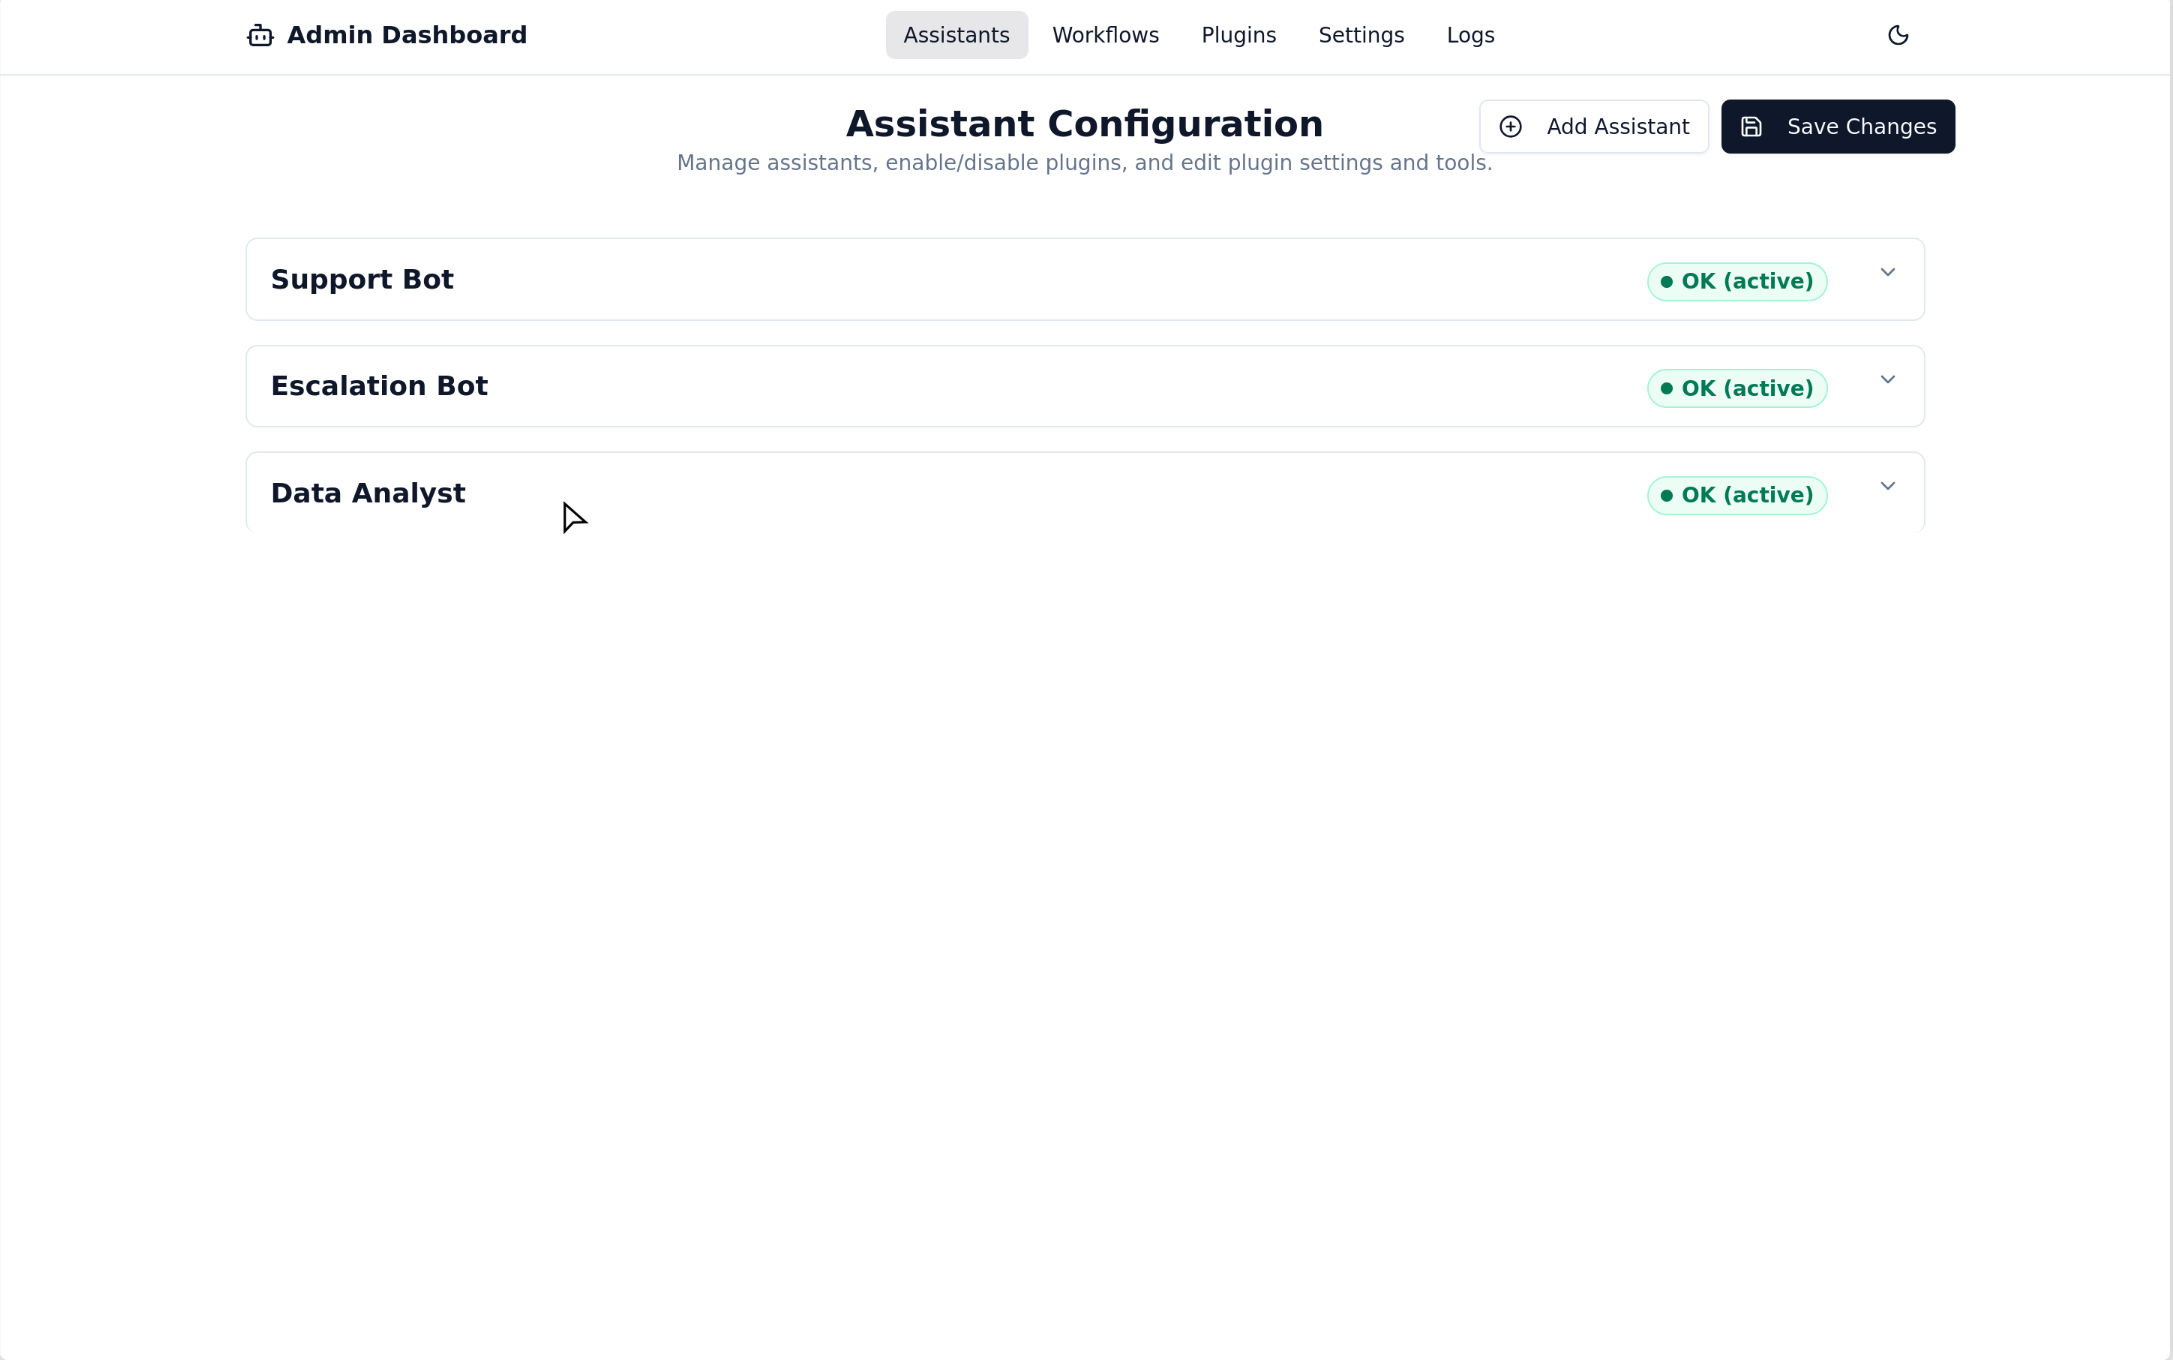
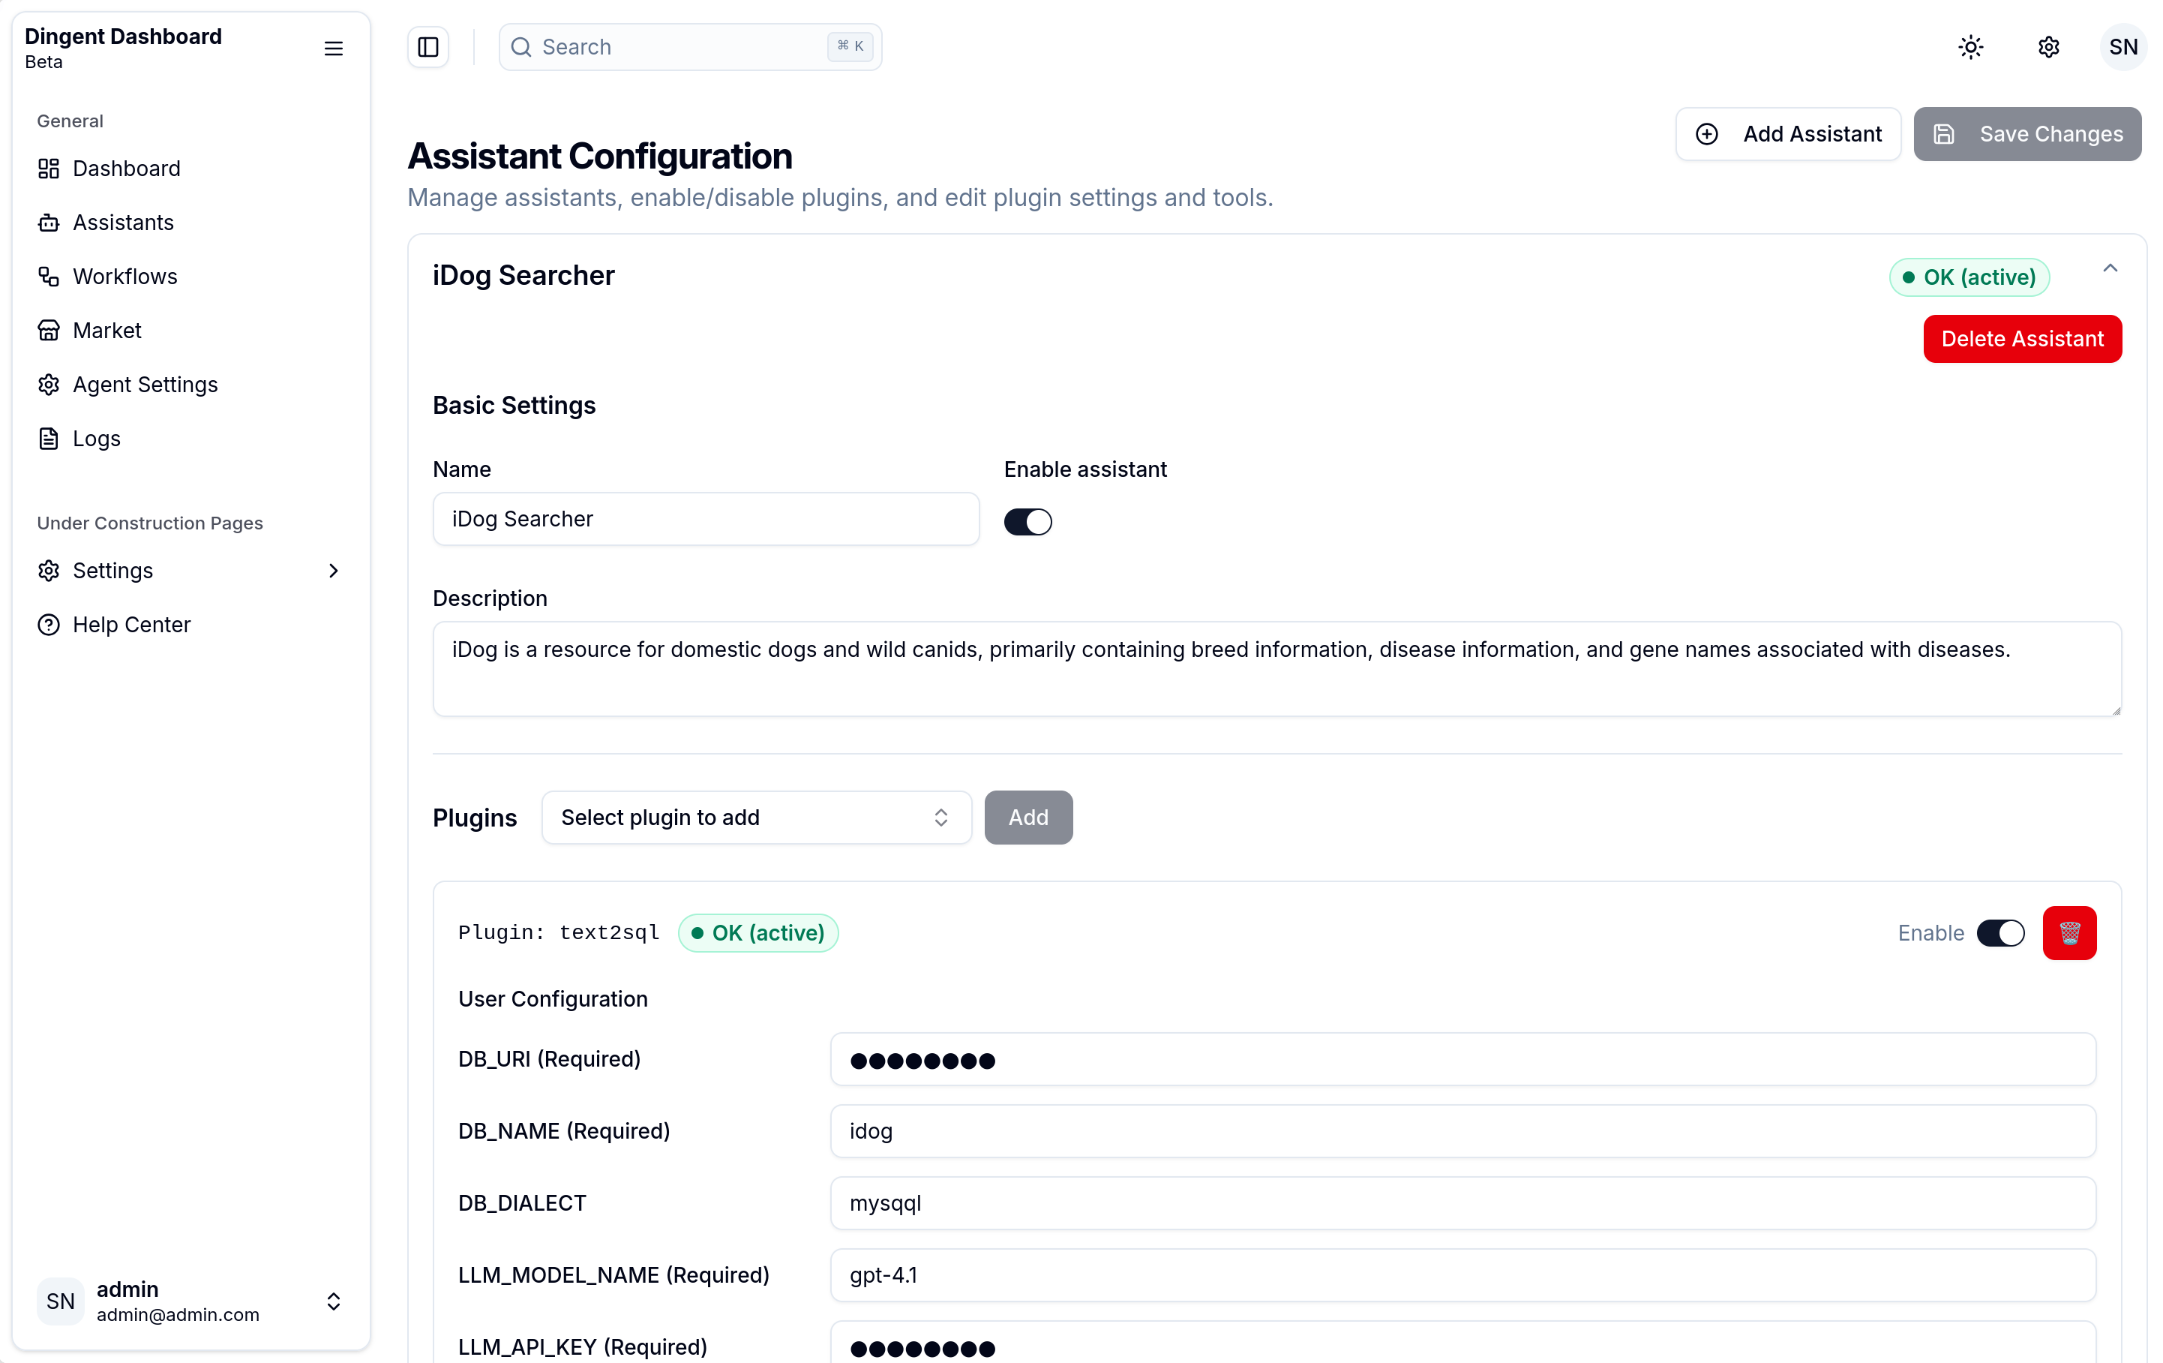
Frontend/shadcn admin (#60)
* Move to shadcn admin framework

* Feature: add overview api route

* Update readme images; update dashboard routes

* Pre commit format

* Chore/remove plugins (#61)

* Move to shadcn admin framework

* Remove unused plugins

* Fix: remove comments in json files

diff --git a/ui/admin-dashboard/vite.config.ts b/ui/admin-dashboard/vite.config.ts
@@ -6,6 +6,7 @@ import { tanstackRouter } from '@tanstack/router-plugin/vite'
 
 // https://vite.dev/config/
 export default defineConfig({
+  base: '/admin',
   plugins: [
     tanstackRouter({
       target: 'react',
@@ -19,17 +20,17 @@ export default defineConfig({
       '@': path.resolve(__dirname, './src'),
     },
   },
-    server: {
-        proxy: {
-            // A string shorthand for the simplest case
-            // '/api': 'http://localhost:8000', // Assuming your API is on port 8000
+  server: {
+    proxy: {
+      // A string shorthand for the simplest case
+      // '/api': 'http://localhost:8000', // Assuming your API is on port 8000
 
-            // Using the options object for more control
-            '/api/v1': {
-                target: 'http://localhost:8000', // The address of your API server
-                changeOrigin: true, // Needed for virtual hosted sites
-                // rewrite: (path) => path.replace(/^\/api/, ''), // Remove /api from the start of the request path
-            },
-        }
-    }
+      // Using the options object for more control
+      '/api/v1': {
+        target: 'http://localhost:8000', // The address of your API server
+        changeOrigin: true, // Needed for virtual hosted sites
+        // rewrite: (path) => path.replace(/^\/api/, ''), // Remove /api from the start of the request path
+      },
+    },
+  },
 })

diff --git a/ui/admin-dashboard/src/components/profile-dropdown.tsx b/ui/admin-dashboard/src/components/profile-dropdown.tsx
@@ -31,9 +31,9 @@ export function ProfileDropdown() {
         <DropdownMenuContent className='w-56' align='end' forceMount>
           <DropdownMenuLabel className='font-normal'>
             <div className='flex flex-col gap-1.5'>
-              <p className='text-sm leading-none font-medium'>satnaing</p>
+              <p className='text-sm leading-none font-medium'>admin</p>
               <p className='text-muted-foreground text-xs leading-none'>
-                satnaingdev@gmail.com
+                admin@admin.com
               </p>
             </div>
           </DropdownMenuLabel>

diff --git a/ui/admin-dashboard/src/main.tsx b/ui/admin-dashboard/src/main.tsx
@@ -72,6 +72,7 @@ const queryClient = new QueryClient({
 // Create a new router instance
 const router = createRouter({
   routeTree,
+  basepath: '/admin',
   context: { queryClient },
   defaultPreload: 'intent',
   defaultPreloadStaleTime: 0,

diff --git a/ui/admin-dashboard/src/lib/utils.ts b/ui/admin-dashboard/src/lib/utils.ts
@@ -108,4 +108,3 @@ export function debounce<F extends (...args: any[]) => any>(func: F, waitFor: nu
         timeout = setTimeout(() => func(...args), waitFor);
     };
 }
-

diff --git a/ui/admin-dashboard/src/routes/_authenticated/assistants/index.tsx b/ui/admin-dashboard/src/routes/_authenticated/assistants/index.tsx
@@ -4,4 +4,3 @@ import {Assistants} from '@/features/assistants'
 export const Route = createFileRoute('/_authenticated/assistants/')({
   component: Assistants,
 })
-

diff --git a/ui/admin-dashboard/src/components/empty-state.tsx b/ui/admin-dashboard/src/components/empty-state.tsx
@@ -6,4 +6,3 @@ export function EmptyState({ title, description }: { title: string; description?
         </div>
     );
 }
-

diff --git a/ui/admin-dashboard/src/components/status-badge.tsx b/ui/admin-dashboard/src/components/status-badge.tsx
@@ -30,4 +30,3 @@ export function StatusBadge({ label, level, title, className }: Props) {
         </span>
     );
 }
-

diff --git a/ui/admin-dashboard/src/components/loading-skeleton.tsx b/ui/admin-dashboard/src/components/loading-skeleton.tsx
@@ -7,4 +7,3 @@ export function LoadingSkeleton({ lines = 3 }: { lines?: number }) {
         </div>
     );
 }
-

diff --git a/ui/admin-dashboard/src/components/searchable-select.tsx b/ui/admin-dashboard/src/components/searchable-select.tsx
@@ -97,4 +97,3 @@ export function SearchableSelect({
         </Popover>
     );
 }
-

diff --git a/src/dingent/server/api/routers/overview.py b/src/dingent/server/api/routers/overview.py
@@ -1,0 +1,180 @@
+import asyncio
+from typing import Any
+
+from fastapi import APIRouter, Depends
+
+from dingent.core.assistant_manager import AssistantManager
+from dingent.core.config_manager import ConfigManager
+from dingent.core.log_manager import LogManager
+from dingent.core.market_service import MarketItemCategory, MarketService
+from dingent.core.plugin_manager import PluginManager
+from dingent.core.workflow_manager import WorkflowManager
+from dingent.server.api.dependencies import (
+    get_assistant_manager,
+    get_config_manager,
+    get_log_manager,
+    get_market_service,
+    get_plugin_manager,
+    get_workflow_manager,
+)
+
+router = APIRouter(prefix="/overview", tags=["Overview"])
+
+
+async def _gather_assistants_section(
+    config_manager: ConfigManager,
+    assistant_manager: AssistantManager,
+) -> dict[str, Any]:
+    settings_list = config_manager.list_assistants()
+    running_instances = await assistant_manager.get_all_assistants(preload=False)
+
+    items = []
+    active = 0
+    for s in settings_list:
+        instance = running_instances.get(s.id)
+        status = "active" if instance else "inactive"
+        if status == "active":
+            active += 1
+        enabled_plugins = sum(1 for p in s.plugins if p.enabled)
+        items.append(
+            {
+                "id": s.id,
+                "name": s.name,
+                "status": status,
+                "plugin_count": len(s.plugins),
+                "enabled_plugin_count": enabled_plugins,
+            }
+        )
+    return {
+        "total": len(settings_list),
+        "active": active,
+        "inactive": len(settings_list) - active,
+        "list": items,
+    }
+
+
+def _gather_plugins_section(plugin_manager: PluginManager) -> dict[str, Any]:
+    manifests = plugin_manager.list_plugins()
+    items = []
+    for pid, manifest in manifests.items():
+        tools = []
+        try:
+            # 尝试静态工具枚举（若插件支持 list_tools 需实例化，这里只统计 manifest 中可见信息）
+            # 如果 manifest 没有工具信息，可留空
+            tools = getattr(manifest, "tools", []) or []
+        except Exception:
+            pass
+        items.append(
+            {
+                "id": pid,
+                "name": manifest.name,
+                "version": manifest.version,
+                "tool_count": len(tools),
+            }
+        )
+    return {
+        "installed_total": len(manifests),
+        "list": items,
+    }
+
+
+def _gather_logs_section(log_manager: LogManager, limit: int = 20) -> dict[str, Any]:
+    # recent logs
+    try:
+        recent = [e.to_dict() for e in log_manager.get_logs(limit=limit)]
+    except Exception:
+        recent = []
+    # stats
+    try:
+        stats = log_manager.get_log_stats()
+    except Exception:
+        stats = {}
+    return {"recent": recent, "stats": stats}
+
+
+async def _gather_market_section(
+    market_service: MarketService,
+    plugin_manager: PluginManager,
+) -> dict[str, Any]:
+    metadata = None
+    plugin_updates = 0
+    try:
+        metadata_obj = await market_service.get_market_metadata()
+        metadata = metadata_obj.model_dump()
+    except Exception:
+        metadata = None
+
+    try:
+        local_versions = plugin_manager.get_installed_versions()  # {plugin_id: version}
+        # 获取市场插件项目
+        market_plugins = await market_service.get_market_items(MarketItemCategory.plugin, installed_items={"plugins": local_versions})
+        for item in market_plugins:
+            # 假设 item.id 与 plugin_id 对应, item.version 字段存在
+            local_ver = local_versions.get(item.id)
+            if local_ver and local_ver != item.version:
+                plugin_updates += 1
+    except Exception:
+        pass
+
+    return {
+        "metadata": metadata,
+        "plugin_updates": plugin_updates,
+    }
+
+
+def _gather_workflows_section(workflow_manager: WorkflowManager) -> dict[str, Any]:
+    workflows = workflow_manager.list_workflows()
+    return {
+        "total": len(workflows),
+        "active_workflow_id": workflow_manager.active_workflow_id,
+        "list": [{"id": w.id, "name": w.name} for w in workflows],
+    }
+
+
+def _gather_llm_section(config_manager: ConfigManager) -> dict[str, Any]:
+    settings = config_manager.get_settings()
+    if settings.llm:
+        return settings.llm.model_dump(mode="json")
+    return {}
+
+
+@router.get("")
+async def get_overview(
+    config_manager: ConfigManager = Depends(get_config_manager),
+    assistant_manager: AssistantManager = Depends(get_assistant_manager),
+    plugin_manager: PluginManager = Depends(get_plugin_manager),
+    log_manager: LogManager = Depends(get_log_manager),
+    market_service: MarketService = Depends(get_market_service),
+    workflow_manager: WorkflowManager = Depends(get_workflow_manager),
+):
+    """
+    聚合后台核心状态用于 Dashboard 展示的总览接口。
+    返回结构示例：
+    {
+      "assistants": {...},
+      "plugins": {...},
+      "workflows": {...},
+      "logs": {...},
+      "market": {...},
+      "llm": {...}
+    }
+    """
+    assistants_task = asyncio.create_task(_gather_assistants_section(config_manager, assistant_manager))
+    market_task = asyncio.create_task(_gather_market_section(market_service, plugin_manager))
+
+    # 同步部分
+    plugins_section = _gather_plugins_section(plugin_manager)
+    workflows_section = _gather_workflows_section(workflow_manager)
+    logs_section = _gather_logs_section(log_manager)
+    llm_section = _gather_llm_section(config_manager)
+
+    assistants_section, market_section = await asyncio.gather(assistants_task, market_task)
+
+    return {
+        "assistants": assistants_section,
+        "plugins": plugins_section,
+        "workflows": workflows_section,
+        "logs": logs_section,
+        "market": market_section,
+        "llm": llm_section,
+    }

diff --git a/src/dingent/core/config_manager.py b/src/dingent/core/config_manager.py
@@ -89,6 +89,8 @@ def _process_secrets_recursively(
     if action == SecretAction.SAVE and isinstance(data, SecretStr):
         key_path = ".".join(path)
         secret_value = data.get_secret_value()
+        if secret_value.strip("*") == "":
+            return secret_manager.get_secret(key_path)  # Return existing secret for empty/masked values
 
         if secret_value:
             secret_manager.set_secret(key_path, secret_value)
@@ -243,31 +245,42 @@ class ConfigManager:
     def upsert_assistant(self, data: AssistantCreate | AssistantUpdate | dict) -> AssistantSettings:
         """
         如果 id 存在则更新；如果不存在则创建。
-        AssistantUpdate 若缺 id 则报错。
+        - 更新时：使用 _clean_patch 过滤掉全为 '*'（例如 '********'）的字段或结构，不覆盖原值。
+        - 创建时：同样会清理；若清理后缺少必填字段将触发校验错误。
         """
         if isinstance(data, AssistantCreate | AssistantUpdate):
-            patch = data.model_dump(exclude_unset=True)
+            raw_patch = data.model_dump(exclude_unset=True)
         else:
-            patch = dict(data)
+            raw_patch = dict(data)
+
+        # 清理（去掉值为全 * 的字段 / 结构）
+        patch = _process_secrets_recursively(raw_patch, path=[], secret_manager=self.secret_manager, action=SecretAction.SAVE)
 
         with self._lock:
             old_settings = self._settings
             assistants_map = {a.id: a for a in old_settings.assistants}
-            a_id = patch.get("id")
 
+            # id 优先从原始 patch 拿，避免被清理掉（理论上 id 不会是掩码，但更稳健）
+            a_id = raw_patch.get("id") or patch.get("id")
+
+            # ---------- 更新逻辑 ----------
             if a_id and a_id in assistants_map:
+                # 如果清理后没有任何有效字段，视为无变更，直接返回旧副本
+                if not patch or (set(patch.keys()) == {"id"} and len(patch) == 1):
+                    return assistants_map[a_id].model_copy(deep=True)
+
                 base = assistants_map[a_id].model_dump()
                 merged = deep_merge(base, patch)
                 new_assistant = AssistantSettings.model_validate(merged)
-                # replace
+
                 new_list = []
                 for a in old_settings.assistants:
-                    if a.id == a_id:
-                        new_list.append(new_assistant)
-                    else:
-                        new_list.append(a)
+                    new_list.append(new_assistant if a.id == a_id else a)
+
+            # ---------- 创建逻辑 ----------
             else:
-                # create new
+                if "id" not in patch:
+                    raise ValueError("Creating a new assistant requires an 'id'.")
                 create_obj = AssistantCreate.model_validate(patch)
                 new_assistant = AssistantSettings.model_validate(create_obj.model_dump())
                 new_list = list(old_settings.assistants) + [new_assistant]
